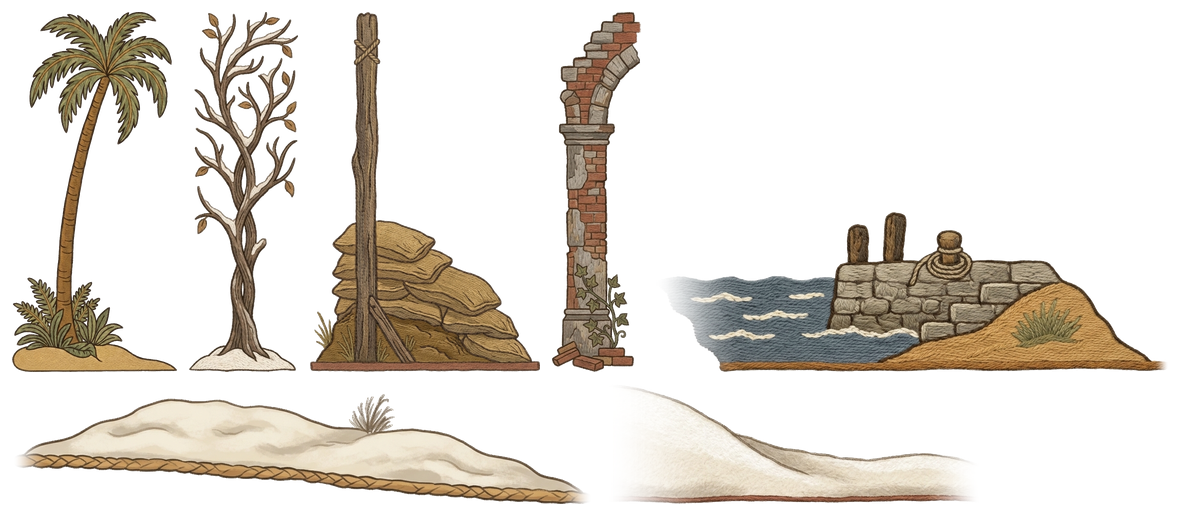
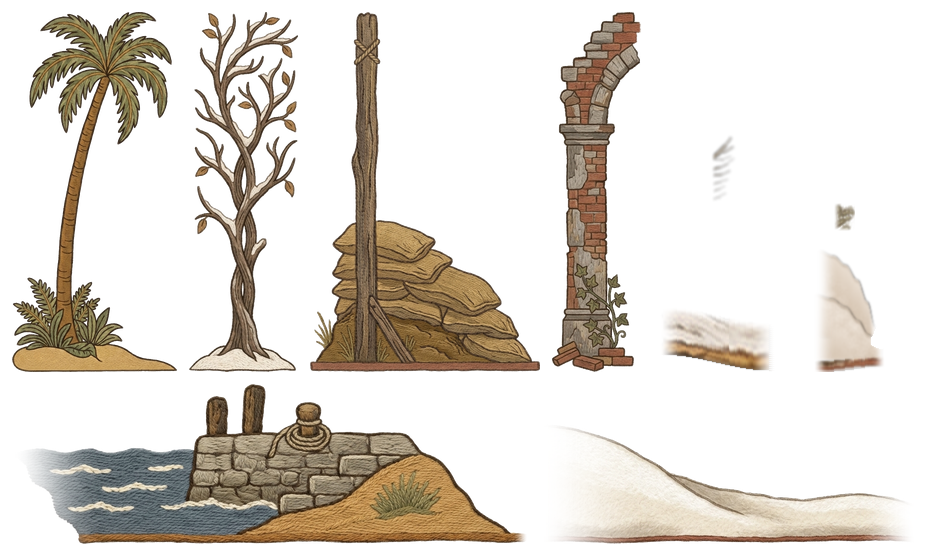
Pixel-match Tapestry #4 and #5 bridges and align scientific border rails

diff --git a/src/tapestryBoundaries.js b/src/tapestryBoundaries.js
@@ -6,16 +6,71 @@
 export const BOUNDARY_DIVIDER_ATLAS = 'images/tapestry/bayeux-boundary-dividers-threads.webp';
 
 // Exact [x, y, width, height] crop boxes inside bayeux-boundary-dividers-threads.webp
-// (1181x516 RGBA transparent wool-thread sprite sheet).
+// (928x556 RGBA transparent wool-thread sprite sheet).
 export const DIVIDER_CROPS = {
   'palm-shore': [12, 12, 165, 360],
   'winter-tree': [189, 12, 109, 360],
   'trench-post': [310, 12, 230, 360],
   'ruined-pier': [552, 12, 89, 360],
-  'harbour-quay': [653, 212, 516, 160],
-  'snow-bridge-down': [12, 394, 581, 110],
-  'snow-slope-single': [605, 384, 376, 120]
+  'join4-bridge': [653, 12, 128, 360],
+  'join5-bridge': [793, 12, 104, 360],
+  'harbour-quay': [12, 384, 516, 160],
+  'snow-slope-single': [540, 424, 376, 120]
 };
+
+// Source-pixel [trimTop, trimBottom] adjustments measured from the red framing
+// rails of each scientific border band so continuation rows (which include
+// 5-11px of inter-row margin or adjacent-row rail bleed) align flush with
+// tightly cropped primary rows without modifying any provenance-hashed atlas.
+export const BORDER_RAIL_TRIMS = {
+  'early-0': [1, 0], 'early-1': [1, 0], 'early-3': [0, 1], 'early-4': [0, 1], 'early-7': [0, 2],
+  'seventeenth-0': [1, 0], 'seventeenth-1': [1, 1], 'seventeenth-2': [1, 1], 'seventeenth-3': [1, 1],
+  'seventeenth-4': [1, 1], 'seventeenth-5': [1, 1], 'seventeenth-6': [1, 1], 'seventeenth-7': [1, 2],
+  'eighteenth-0': [5, 1], 'eighteenth-1': [3, 1], 'eighteenth-2': [1, 2], 'eighteenth-3': [1, 2],
+  'eighteenth-4': [1, 2], 'eighteenth-5': [2, 1], 'eighteenth-6': [2, 2], 'eighteenth-7': [1, 2],
+  'nineteenth-0': [1, 1], 'nineteenth-1': [9, 3], 'nineteenth-2': [1, 3], 'nineteenth-3': [1, 2],
+  'nineteenth-4': [1, 2], 'nineteenth-5': [1, 3], 'nineteenth-6': [2, 3], 'nineteenth-7': [2, 3],
+  'electrons-0': [2, 2], 'electrons-1': [2, 2], 'electrons-2': [3, 2], 'electrons-3': [2, 2],
+  'electrons-4': [2, 1], 'electrons-5': [3, 2], 'electrons-6': [3, 2], 'electrons-7': [2, 2],
+  'space-0': [1, 2], 'space-1': [0, 2], 'space-2': [0, 1], 'space-4': [0, 2],
+  'space-5': [0, 1], 'space-6': [1, 1], 'space-7': [0, 2],
+  'earlyContinuation-0': [6, 4], 'earlyContinuation-2': [0, 15], 'earlyContinuation-3': [3, 0],
+  'earlyContinuation-4': [2, 0], 'earlyContinuation-5': [2, 0], 'earlyContinuation-7': [0, 4],
+  'seventeenthContinuation-0': [6, 7], 'seventeenthContinuation-2': [8, 0],
+  'seventeenthContinuation-3': [7, 0], 'seventeenthContinuation-4': [6, 0],
+  'seventeenthContinuation-5': [6, 6], 'seventeenthContinuation-6': [0, 8],
+  'seventeenthContinuation-7': [0, 9],
+  'eighteenthContinuation-0': [7, 0], 'eighteenthContinuation-1': [11, 0],
+  'eighteenthContinuation-2': [11, 0], 'eighteenthContinuation-3': [10, 0],
+  'eighteenthContinuation-4': [10, 0], 'eighteenthContinuation-5': [11, 0],
+  'eighteenthContinuation-6': [10, 7], 'eighteenthContinuation-7': [0, 5],
+  'nineteenthContinuation-0': [0, 9], 'nineteenthContinuation-2': [0, 9],
+  'nineteenthContinuation-3': [0, 8], 'nineteenthContinuation-4': [0, 7],
+  'nineteenthContinuation-5': [0, 4], 'nineteenthContinuation-7': [0, 10],
+  'electronsContinuation-0': [8, 0], 'electronsContinuation-1': [9, 0],
+  'electronsContinuation-2': [7, 0], 'electronsContinuation-3': [8, 0],
+  'electronsContinuation-4': [9, 0], 'electronsContinuation-5': [8, 0],
+  'electronsContinuation-6': [9, 0], 'electronsContinuation-7': [8, 8],
+  'spaceContinuation-0': [6, 0], 'spaceContinuation-1': [5, 0], 'spaceContinuation-4': [4, 0],
+  'spaceContinuation-5': [0, 11], 'spaceContinuation-7': [0, 4]
+};
+
+// Returns the rail-aligned source crop rectangle for a scientific border band.
+export function alignedBorderCrop(border) {
+  const trim = BORDER_RAIL_TRIMS[border?.id];
+  if (!trim) return border.crop;
+  const [trimTop, trimBottom] = trim;
+  const height = border.crop.height - trimTop - trimBottom;
+  if (height <= 4) return border.crop;
+  return { x: border.crop.x, y: border.crop.y + trimTop, width: border.crop.width, height };
+}
+
+// Draws one scientific border slice with its red framing rails vertically aligned.
+export function drawAlignedBorderSlice(ink, drawing, border, y) {
+  const crop = alignedBorderCrop(border);
+  ink.drawImage(drawing, crop.x, crop.y, crop.width, crop.height,
+    border.left, y, border.width, border.height);
+}
 
 // Per-join visual tuning across all 11 panel-to-panel joins of storyPanels.
 // Fractions are relative to artHeight so geometry scales cleanly at any height.
@@ -43,17 +98,18 @@ export const PANEL_BOUNDARIES = {
     rightGround: 0.955
   },
   'early-2->early-3': {
-    motif: 'snow-bridge-down',
+    motif: 'join4-bridge',
     label: '1650 · Existing Winter Tree → Timber Cottage',
-    leftFeather: 0.11,
-    rightFeather: 0.11,
-    featherTopFrac: 0.66,
-    heightScale: 0.18,
-    widthScale: 0.64,
-    centerBias: 0.01,
+    leftFeather: 0.10,
+    rightFeather: 0.08,
+    leftFeatherTopFrac: 0.87,
+    rightFeatherTopFrac: 0.66,
+    heightScale: 1.0,
+    widthScale: 1.0,
+    centerBias: 0,
     flip: false,
-    leftGround: 0.96,
-    rightGround: 0.995
+    leftGround: 1.0,
+    rightGround: 1.0
   },
   'early-3->middle-0': {
     motif: 'snow-slope-single',
@@ -69,17 +125,18 @@ export const PANEL_BOUNDARIES = {
     rightGround: 0.995
   },
   'middle-0->middle-1': {
-    motif: 'snow-slope-single',
+    motif: 'join5-bridge',
     label: '1740 · Existing Winter Tree & Stream → Seven Years’ War',
-    leftFeather: 0.055,
-    rightFeather: 0.02,
-    featherTopFrac: 0.60,
-    heightScale: 0.22,
-    widthScale: 0.44,
-    centerBias: -0.045,
+    leftFeather: 0.045,
+    rightFeather: 0.022,
+    leftFeatherTopFrac: 0.66,
+    rightFeatherTopFrac: 0.88,
+    heightScale: 1.0,
+    widthScale: 1.0,
+    centerBias: -0.0111,
     flip: false,
-    leftGround: 0.995,
-    rightGround: 0.985
+    leftGround: 1.0,
+    rightGround: 1.0
   },
   'middle-1->middle-2': {
     motif: null,
@@ -196,6 +253,8 @@ export function boundarySpecs(panels, artHeight) {
       leftFeatherPx,
       rightFeatherPx,
       featherTopFrac: cfg.featherTopFrac || 0,
+      leftFeatherTopFrac: cfg.leftFeatherTopFrac ?? cfg.featherTopFrac ?? 0,
+      rightFeatherTopFrac: cfg.rightFeatherTopFrac ?? cfg.featherTopFrac ?? 0,
       drawWidth,
       drawHeight,
       halfWidthPx,
@@ -219,11 +278,11 @@ export function fragmentEdgeFeathers(fragment, boundaries) {
   for (const b of boundaries) {
     if (b.rightPanelId === fragment.panel.id && fragment.sourceX < panelStart + b.rightFeatherPx - 1e-6) {
       leftFeather = Math.max(leftFeather, b.rightFeatherPx);
-      leftTopFrac = b.featherTopFrac || 0;
+      leftTopFrac = b.rightFeatherTopFrac || 0;
     }
     if (b.leftPanelId === fragment.panel.id && fragment.sourceX + fragment.width > panelEnd - b.leftFeatherPx + 1e-6) {
       rightFeather = Math.max(rightFeather, b.leftFeatherPx);
-      rightTopFrac = b.featherTopFrac || 0;
+      rightTopFrac = b.leftFeatherTopFrac || 0;
     }
   }
   return { leftFeather, rightFeather, leftTopFrac, rightTopFrac };
@@ -285,9 +344,18 @@ export function drawFeatheredPanelSlice(ink, image, panel, fragment, artTop, art
   const panelEnd = panelStart + panel.sourceWidth;
 
   const leftZoneEnd = leftFeather > 0 ? Math.min(sourceX + exposedWidth, panelStart + leftFeather) : sourceX;
-  const leftFadeW = Math.max(0, leftZoneEnd - sourceX);
+  const rawLeftFadeW = Math.max(0, leftZoneEnd - sourceX);
   const rightZoneStart = rightFeather > 0 ? Math.max(sourceX, panelEnd - rightFeather) : sourceX + exposedWidth;
-  const rightFadeW = Math.max(0, (sourceX + exposedWidth) - rightZoneStart);
+  const rawRightFadeW = Math.max(0, (sourceX + exposedWidth) - rightZoneStart);
+
+  // Snap horizontal strip split coordinates to exact device pixels so adjacent
+  // slices meet with zero subpixel light gap and zero double-composited seam.
+  const snapOffset = (offset) => (Math.round((left + offset) * pixelRatio) / pixelRatio) - left;
+  const leftFadeW = rawLeftFadeW > 0.25 ? Math.max(0, Math.min(exposedWidth, snapOffset(rawLeftFadeW))) : 0;
+  const rightSplitOffset = rawRightFadeW > 0.25
+    ? Math.max(leftFadeW, Math.min(exposedWidth, snapOffset(exposedWidth - rawRightFadeW)))
+    : exposedWidth;
+  const rightFadeW = Math.max(0, exposedWidth - rightSplitOffset);
 
   if (leftFadeW <= 0.25 && rightFadeW <= 0.25) {
     const cropX = panel.crop.x + (sourceX - panelStart) / panel.unit;
@@ -298,7 +366,7 @@ export function drawFeatheredPanelSlice(ink, image, panel, fragment, artTop, art
 
   // 1. Draw the crisp unfeathered interior directly.
   const midStart = sourceX + leftFadeW;
-  const midEnd = sourceX + exposedWidth - rightFadeW;
+  const midEnd = sourceX + rightSplitOffset;
   if (midEnd > midStart + 0.05) {
     const midW = midEnd - midStart;
     const cropX = panel.crop.x + (midStart - panelStart) / panel.unit;
@@ -313,9 +381,13 @@ export function drawFeatheredPanelSlice(ink, image, panel, fragment, artTop, art
     const destX = left + (stripSourceX - sourceX);
 
     // Keep upper canopy completely crisp when feathering only the lower ground/snow band.
-    const splitY = topFrac > 0 ? bodyHeight * topFrac : 0;
+    const rawSplitY = topFrac > 0 ? bodyHeight * topFrac : 0;
+    const splitY = rawSplitY > 1
+      ? Math.max(0, Math.min(bodyHeight, (Math.round((destY + rawSplitY) * pixelRatio) / pixelRatio) - destY))
+      : 0;
+    const snappedTopFrac = splitY / bodyHeight;
     if (splitY > 1) {
-      const topSrcH = panel.crop.height * topFrac;
+      const topSrcH = panel.crop.height * snappedTopFrac;
       ink.drawImage(image, cropX, panel.crop.y, stripW / panel.unit, topSrcH,
         destX, destY, stripW, splitY);
     }
@@ -330,8 +402,8 @@ export function drawFeatheredPanelSlice(ink, image, panel, fragment, artTop, art
     sctx.globalCompositeOperation = 'source-over';
     sctx.clearRect(0, 0, stripW + 2, fadeH + 2);
 
-    const lowerSrcY = panel.crop.y + panel.crop.height * topFrac;
-    const lowerSrcH = panel.crop.height * (1 - topFrac);
+    const lowerSrcY = panel.crop.y + panel.crop.height * snappedTopFrac;
+    const lowerSrcH = panel.crop.height * (1 - snappedTopFrac);
     sctx.drawImage(image, cropX, lowerSrcY, stripW / panel.unit, lowerSrcH,
       0, 0, stripW, fadeH);
 
@@ -359,8 +431,7 @@ export function drawFeatheredPanelSlice(ink, image, panel, fragment, artTop, art
   };
 
   if (leftFadeW > 0.25) drawStrip(sourceX, leftFadeW, 'left', leftFeather, leftTopFrac);
-  const clampedRightStart = Math.max(rightZoneStart, midStart);
-  if (rightFadeW > 0.25) drawStrip(clampedRightStart, (sourceX + exposedWidth) - clampedRightStart, 'right', rightFeather, rightTopFrac);
+  if (rightFadeW > 0.25) drawStrip(midEnd, rightFadeW, 'right', rightFeather, rightTopFrac);
 }
 
 // Paints the embroidered Bayeux boundary divider or ground-braid bridge sprite

diff --git a/src/storyRenderer.js b/src/storyRenderer.js
@@ -3,7 +3,7 @@ import { layoutStory, foldStory, exposedStory, storyCamera } from './storyLayout
 import { layoutScientificBorder, exposedScientificBorder, scientificBorderFrame, scientificBorderY } from './scientificBorders.js?v=pass2-photography-v1';
 import { paintLinen, paintFragmentLinen } from './linenBacking.js?v=pass2-cloth-dynamics-v1';
 import { analyzeClothFolds, clothSelvageRelief } from './clothDynamics.js?v=pass2-cloth-dynamics-v1';
-import { BOUNDARY_DIVIDER_ATLAS, boundarySpecs, fragmentEdgeFeathers, exposedFlatBoundaries, drawFeatheredPanelSlice, drawBoundaryDivider, drawBorderJoinAlignment } from './tapestryBoundaries.js?v=pass2-boundaries-v3';
+import { BOUNDARY_DIVIDER_ATLAS, boundarySpecs, fragmentEdgeFeathers, exposedFlatBoundaries, drawFeatheredPanelSlice, drawBoundaryDivider, drawBorderJoinAlignment, drawAlignedBorderSlice } from './tapestryBoundaries.js?v=pass2-boundaries-v4';
 import { contextHeading } from './contextHeadings.js?v=pass2-cloth-recovery-v1';
 import { contextDate } from './contextModel.js?v=pass2-chapters-v2';
 import { recordKey } from './itemIdentity.js';
@@ -170,8 +170,7 @@ function paint(model, container) {
       const drawing = model.loaded.get(border.file);
       if (!drawing) continue;
       const y = scientificBorderY(border, model);
-      ink.drawImage(drawing, border.crop.x, border.crop.y, border.crop.width, border.crop.height,
-        border.left, y, border.width, border.height);
+      drawAlignedBorderSlice(ink, drawing, border, y);
     }
   }
   const flatJoins = exposedFlatBoundaries(fragments, boundaries);
